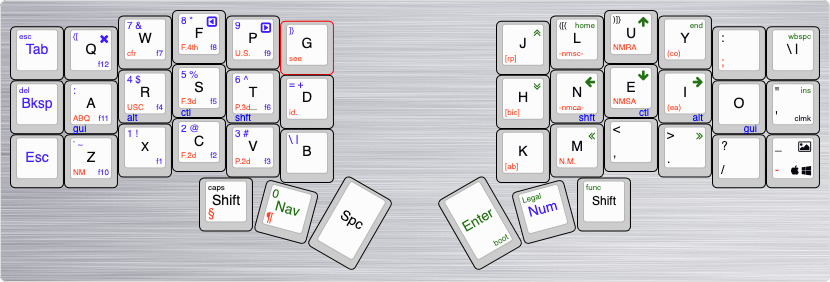
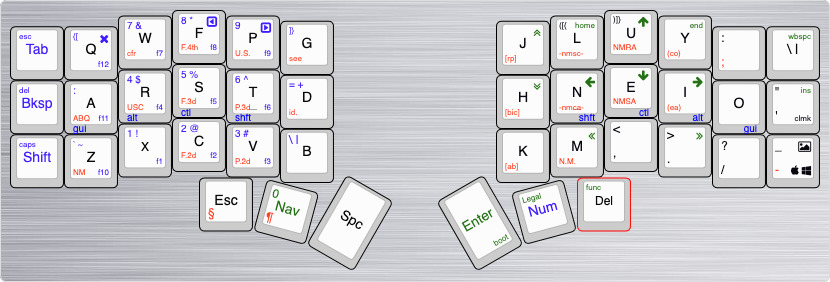
tweaks

diff --git a/keymap.c b/keymap.c
@@ -98,9 +98,9 @@ const uint16_t PROGMEM keymaps[][MATRIX_ROWS][MATRIX_COLS] = {
   //|--------+--------+--------+--------+--------+--------|                    |--------+--------+--------+--------+--------+--------|
       KC_BSPC,    DZ_A,    DZ_R,    DZ_S,    DZ_T,    KC_D,                         KC_H,    DZ_N,    DZ_E,    DZ_I,    DZ_O, KC_QUOT,
   //|--------+--------+--------+--------+--------+--------|                    |--------+--------+--------+--------+--------+--------|
-       KC_ESC,    KC_Z,    KC_X,    KC_C,    KC_V,    KC_B,                         KC_K,    KC_M, KC_COMM,  KC_DOT, KC_SLSH, KC_MINS,
+       DZ_OSS,    KC_Z,    KC_X,    KC_C,    KC_V,    KC_B,                         KC_K,    KC_M, KC_COMM,  KC_DOT, KC_SLSH, KC_MINS,
   //|--------+--------+--------+--------+--------+--------+--------|  |--------+--------+--------+--------+--------+--------+--------|
-                                           DZ_OSS,MO(_NAV),  KC_SPC,     KC_ENT,MO(_NUM), DZ_OSSR
+                                           KC_ESC,MO(_NAV),  KC_SPC,     KC_ENT,MO(_NUM), KC_DEL
                                       //`--------------------------'  `--------------------------'
 
   ),
@@ -111,9 +111,9 @@ const uint16_t PROGMEM keymaps[][MATRIX_ROWS][MATRIX_COLS] = {
   //|--------+--------+--------+--------+--------+--------|                    |--------+--------+--------+--------+--------+--------|
       KC_BSPC,   DZQ_A,   DZQ_S,   DZQ_D,   DZQ_F,    KC_G,                         KC_H,   DZQ_J,   DZQ_K,   DZQ_L,  DZQ_SC, KC_QUOT,
   //|--------+--------+--------+--------+--------+--------|                    |--------+--------+--------+--------+--------+--------|
-       KC_ESC,    KC_Z,    KC_X,    KC_C,    KC_V,    KC_B,                         KC_N,    KC_M, KC_COMM,  KC_DOT, KC_SLSH, KC_MINS,
+       DZ_OSS,    KC_Z,    KC_X,    KC_C,    KC_V,    KC_B,                         KC_N,    KC_M, KC_COMM,  KC_DOT, KC_SLSH, KC_MINS,
   //|--------+--------+--------+--------+--------+--------+--------|  |--------+--------+--------+--------+--------+--------+--------|
-                                           DZ_OSS,MO(_NAV),  KC_SPC,     KC_ENT,MO(_NUM),  DZ_OSS
+                                           _______,MO(_NAV),  KC_SPC,     KC_ENT,MO(_NUM), _______
                                       //`--------------------------'  `--------------------------'
 
   ),
@@ -135,7 +135,7 @@ const uint16_t PROGMEM keymaps[][MATRIX_ROWS][MATRIX_COLS] = {
   //|--------+--------+--------+--------+--------+--------|                    |--------+--------+--------+--------+--------+--------|
       _______,S(KC_SCLN),  KC_4,    KC_5,    KC_6,  KC_EQL,                      XXXXXXX, DZ_RSFT, DZ_RCTL, DZ_LALT, DZ_RGUI, _______,
   //|--------+--------+--------+--------+--------+--------|                    |--------+--------+--------+--------+--------+--------|
-      _______,  KC_GRV,    KC_1,    KC_2,    KC_3, KC_BSLS,                      _______, _______, _______, _______, _______, _______, 
+      KC_CAPS,  KC_GRV,    KC_1,    KC_2,    KC_3, KC_BSLS,                      _______, _______, _______, _______, _______, _______, 
   //|--------+--------+--------+--------+--------+--------+--------|  |--------+--------+--------+--------+--------+--------+--------|
                                           KC_CAPS,    KC_0, _______,    _______, _______, _______
                                       //`--------------------------'  `--------------------------'
